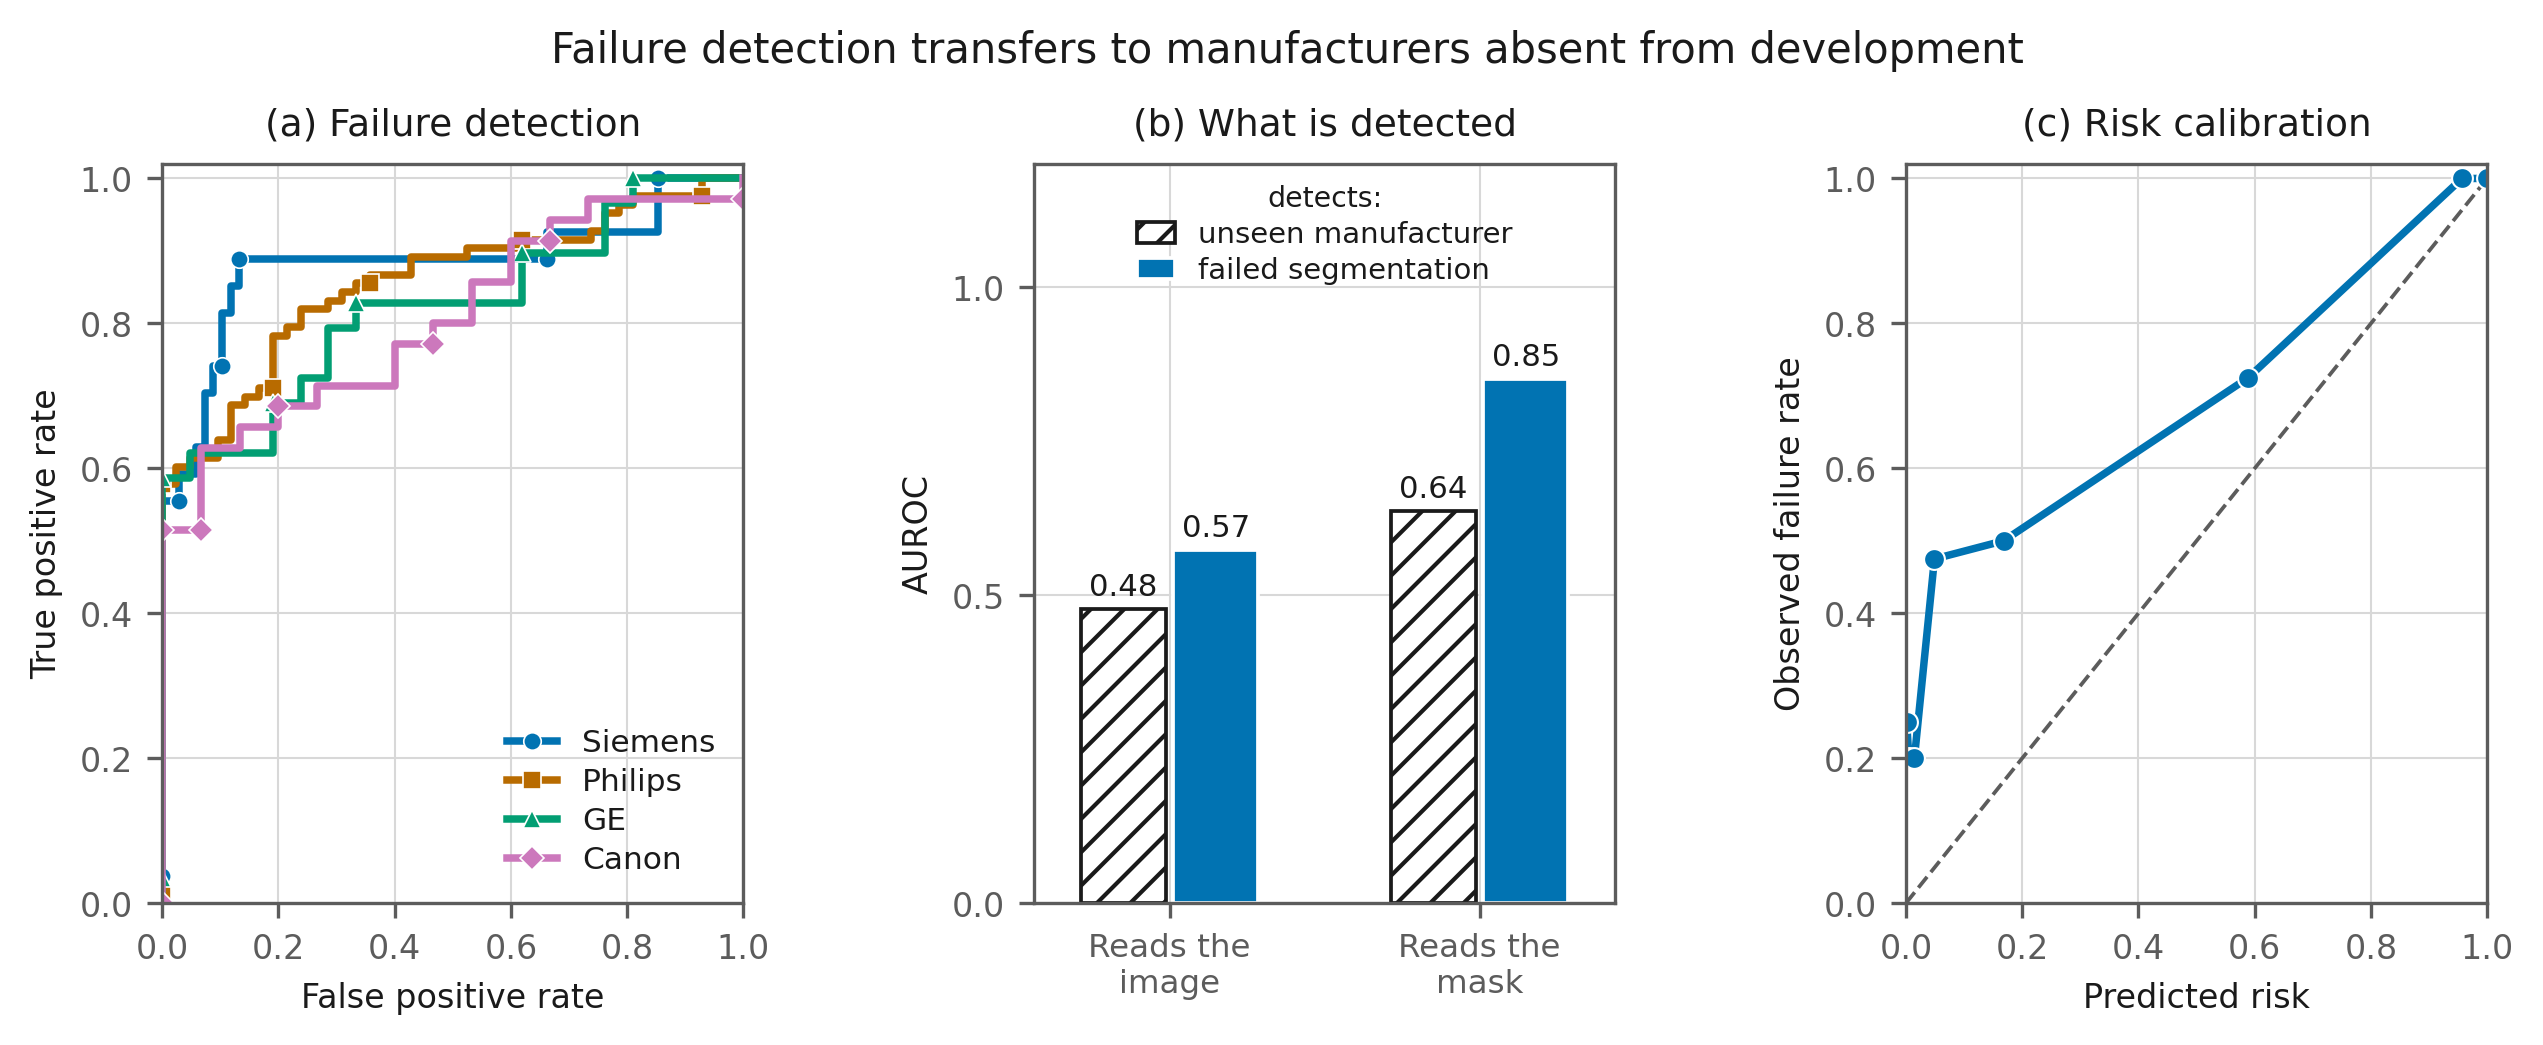
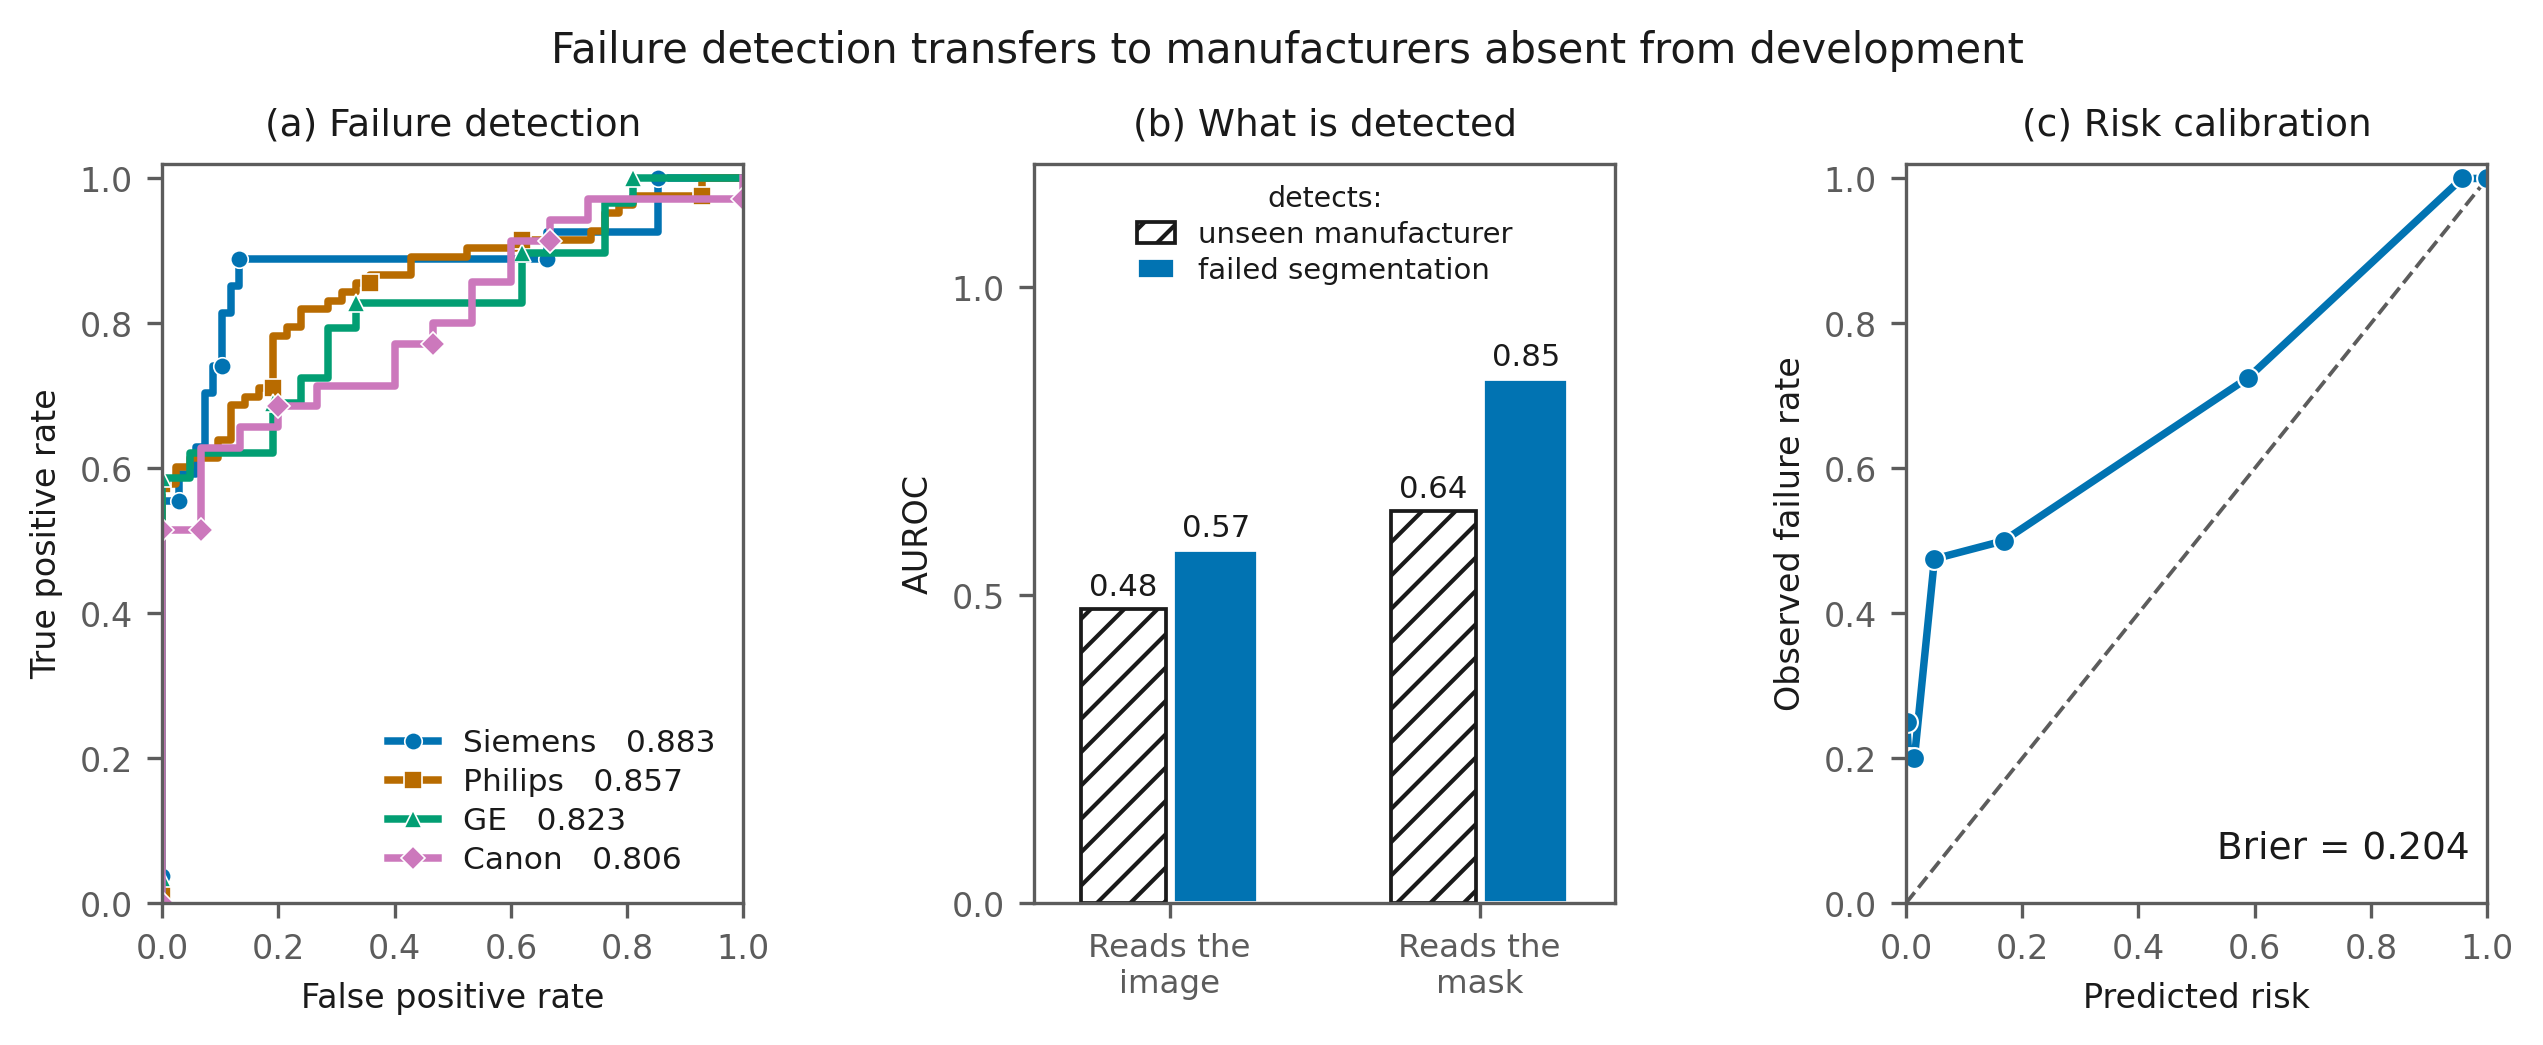
Figures: grid removed throughout; cases and axes reworked
- No grid on any panel.
- Fig. 1: ACDC now carries the Siemens colour (it IS a Siemens cohort) and the dataset is given
  by brackets under the axis, so the manufacturer axis is unambiguous and uncrowded.
- Fig. 2: both cases reselected at a MID-VENTRICULAR level -- basal and apical slices are
  excluded, since the RV is truncated at the base and the cavity vanishes at the apex. The crop
  now hugs the whole heart. PASS: risk 0.12 (non-degenerate), Dice 0.872, EF error 0.2 pp.
  REVIEW: risk 0.99, Dice 0.620, EF error 41.7 pp.
- Fig. 3: y-axis labelled on both panels.
- Fig. 4: per-manufacturer AUROC restored beside each curve; Brier score printed on (c).
- Fig. 5: the 20%-review annotation restored on (a).

Changed region(s): [[0.1243, 0.7043, 0.2796, 0.8574], [0.8698, 0.7962, 0.963, 0.8268]]

diff --git a/src/make_figures.py b/src/make_figures.py
@@ -49,7 +49,7 @@ plt.rcParams.update({
     "font.family": "DejaVu Sans", "font.size": 8,
     "axes.edgecolor": MUTED, "axes.linewidth": 0.8, "axes.labelcolor": INK,
     "xtick.color": MUTED, "ytick.color": MUTED, "text.color": INK,
-    "axes.grid": True, "grid.color": GRID, "grid.linewidth": 0.5,
+    "axes.grid": False,
     "axes.axisbelow": True, "legend.frameon": False,
     "figure.dpi": 300, "savefig.dpi": 300, "savefig.bbox": "tight",
 })
@@ -72,23 +72,32 @@ def fig1_vendor():
     dev, ext = cohorts()
     groups = [dev, ext[ext.vendor == "Siemens"]] + [ext[ext.vendor == v]
                                                     for v in ["Philips", "GE", "Canon"]]
-    labels = ["ACDC", "Siemens", "Philips", "GE", "Canon"]
-    cols = [DEV, COL["Siemens"], COL["Philips"], COL["GE"], COL["Canon"]]
+    # ACDC is itself a Siemens cohort, so it carries the Siemens colour. The two group
+    # brackets below the axis say which dataset each bar comes from.
+    labels = ["Siemens", "Siemens", "Philips", "GE", "Canon"]
+    cols = [COL["Siemens"], COL["Siemens"], COL["Philips"], COL["GE"], COL["Canon"]]
     hats = ["", "", HATCH["Philips"], HATCH["GE"], HATCH["Canon"]]
     x = np.arange(5)
 
-    fig, axes = plt.subplots(1, 3, figsize=(9.6, 3.0), gridspec_kw={"wspace": 0.42})
+    fig, axes = plt.subplots(1, 3, figsize=(10.6, 3.5), gridspec_kw={"wspace": 0.40})
 
     def panel(ax, vals, fmt, ymax, pad, ylabel, title):
         ax.axvspan(1.5, 4.5, color=SHADE, zorder=0)
         b = ax.bar(x, vals, 0.66, color=cols, hatch=hats, edgecolor="white",
                    linewidth=0.6, zorder=2)
-        b[0].set_edgecolor(INK); b[0].set_linewidth(1.0)
+        b[0].set_edgecolor(INK); b[0].set_linewidth(1.2)      # development cohort
         for xi, vi in zip(x, vals):
-            ax.text(xi, vi + pad, fmt.format(vi), ha="center", fontsize=7.2, color=INK)
-        ax.set_xticks(x); ax.set_xticklabels(labels, fontsize=7.2)
-        ax.set_ylim(0, ymax); ax.set_ylabel(ylabel, fontsize=8)
-        ax.set_title(title, fontsize=9, pad=7)
+            ax.text(xi, vi + pad, fmt.format(vi), ha="center", fontsize=7.4, color=INK)
+        ax.set_xticks(x)
+        ax.set_xticklabels(labels, fontsize=7.4, rotation=28, ha="right")
+        ax.set_ylim(0, ymax); ax.set_ylabel(ylabel, fontsize=8.5)
+        ax.set_title(title, fontsize=9.5, pad=8)
+        # dataset brackets under the axis
+        for x0, x1, lab in [(-0.42, 0.42, "ACDC"), (0.58, 4.42, "M&Ms")]:
+            ax.plot([x0, x1], [-0.235 * ymax] * 2, color=MUTED, lw=0.9,
+                    clip_on=False, zorder=3)
+            ax.text((x0 + x1) / 2, -0.29 * ymax, lab, ha="center", va="top",
+                    fontsize=8, color=INK, clip_on=False)
 
     panel(axes[0], [g[["dice_RV", "dice_Myo", "dice_LV"]].mean().mean() for g in groups],
           "{:.3f}", 1.05, 0.03, "Mean Dice", "(a) Segmentation accuracy")
@@ -108,24 +117,27 @@ def fig2_qualitative():
     disagreement where none does."""
     scores = pd.read_csv(os.path.join(RES, "qc_scores.csv")).set_index("patient_id")
     curves = np.load(os.path.join(RES, "disagreement_curves.npz"))
-    # PASS: all three structures segmented well (RV .922 / Myo .834 / LV .921), EF error 0.2 pp.
-    # REVIEW: the two propagations diverge (Dice .553, EF error 42 pp).
-    cases = [("M2P1R1", "Siemens", "PASS", "#1A7F37"),
-             ("B3E2W8", "Canon", "REVIEW", "#C42B1C")]
+    # PASS:   RV .918 / Myo .813 / LV .886, EF error 0.2 pp, risk 0.12.
+    # REVIEW: the two propagations diverge -- Dice .620, EF error 41.7 pp, risk 0.99.
+    cases = [("B5F8L9", "Siemens", "PASS", "#1A7F37"),
+             ("I8N8Y1", "Canon", "REVIEW", "#C42B1C")]
     sl_mnm = patient_slices("MnM")
 
     def best_slice(files):
-        """The slice where the whole heart is most completely represented: all three
-        structures present in the reference, and the largest total area."""
-        best, score = files[len(files) // 2], -1.0
-        for f in files:
+        """A mid-ventricular slice: basal and apical levels are excluded (the RV is truncated
+        at the base and the cavity vanishes at the apex), so only the middle third of the stack
+        is considered, and within it the level where all three structures are largest."""
+        files = sorted(files)
+        n = len(files)
+        mid = files[n // 3: max(n // 3 + 1, 2 * n // 3)]
+        best, score = mid[len(mid) // 2], -1.0
+        for f in mid:
             gt = np.load(f, allow_pickle=True)["ed_mask"]
             areas = [(gt == c).sum() for c in CLS]
-            if min(areas) < 30:                     # a structure is missing at this level
+            if min(areas) < 200:                    # a structure is barely present at this level
                 continue
-            s = float(min(areas)) * float(sum(areas)) ** 0.5
-            if s > score:
-                best, score = f, s
+            if min(areas) > score:
+                best, score = f, min(areas)
         return best
 
     fig, axes = plt.subplots(2, 6, figsize=(11.4, 4.1),
@@ -147,11 +159,17 @@ def fig2_qualitative():
         tm = int((lo + hi) / 2) if hi > lo + 1 else min(T - 1, lo + 1)     # mid-cycle
         gt = d["ed_mask"]
 
-        nz = (ed[tm] > 0) | (es[tm] > 0) | (gt > 0)
+        # crop tightly to the whole heart: the bounding box of the reference and both
+        # propagations, made square, with a small margin
+        nz = (ed[tm] > 0) | (es[tm] > 0) | (bi[ei] > 0) | (gt > 0)
         ys, xs = np.where(nz)
-        cy, cx = (int(ys.mean()), int(xs.mean())) if ys.size else (256, 256)
-        h = 88
-        sl = (slice(max(0, cy - h), cy + h), slice(max(0, cx - h), cx + h))
+        if ys.size:
+            cy, cx = int((ys.min() + ys.max()) / 2), int((xs.min() + xs.max()) / 2)
+            h = int(max(np.ptp(ys), np.ptp(xs)) / 2) + 14
+        else:
+            cy = cx = 256; h = 88
+        y0, x0 = max(0, cy - h), max(0, cx - h)
+        sl = (slice(y0, min(512, y0 + 2 * h)), slice(x0, min(512, x0 + 2 * h)))
 
         def show(ax, frame, mask, title):
             ax.imshow(frame[sl], cmap="gray", interpolation="nearest")
@@ -253,7 +271,7 @@ def fig3_estimation():
         ax.set_xlabel("True Dice")
         ax.set_title(title, fontsize=9, pad=7)
         ax.set_xlim(0.3, 1.0); ax.set_ylim(0.3, 1.0); ax.set_aspect("equal")
-    axes[0].set_ylabel("CycleQA estimate")
+        ax.set_ylabel("CycleQA estimate")
     fig.suptitle("Segmentation quality is estimable from the predictions alone",
                  fontsize=10, y=1.01)
     save(fig, "fig3_estimation.png")
@@ -274,9 +292,10 @@ def fig4_detection():
         if g["fail"].nunique() < 2:
             continue
         fpr, tpr, _ = roc_curve(g["fail"], g["qc_LogReg"])
+        a = perf[(perf.model == "LogReg") & (perf.subgroup == v)].auroc.iloc[0]
         ax.plot(fpr, tpr, color=COL[v], lw=1.8, marker=MRK[v], markevery=0.22,
                 markersize=4.2, markeredgecolor="white", markeredgewidth=0.4,
-                label=v, zorder=2)
+                label=f"{v}   {a:.3f}", zorder=2)
     ax.set_xlabel("False positive rate"); ax.set_ylabel("True positive rate")
     ax.set_title("(a) Failure detection", fontsize=9, pad=7)
     ax.legend(fontsize=7.5, loc="lower right", handlelength=1.6, labelspacing=0.32)
@@ -310,6 +329,10 @@ def fig4_detection():
     pt, pp = calibration_curve(s["fail"], s["qc_LogReg"], n_bins=8, strategy="quantile")
     ax.plot(pp, pt, color="#0173B2", lw=1.8, marker="o", markersize=5,
             markeredgecolor="white", markeredgewidth=0.5, zorder=2)
+    br = perf[(perf.model == "LogReg") & (perf.scope == "MnM (external)")
+              & (perf.subgroup == "ALL")].brier.iloc[0]
+    ax.text(0.97, 0.05, f"Brier = {br:.3f}", transform=ax.transAxes, ha="right",
+            va="bottom", fontsize=9, color=INK)
     ax.set_xlabel("Predicted risk"); ax.set_ylabel("Observed failure rate")
     ax.set_title("(c) Risk calibration", fontsize=9, pad=7)
     ax.set_xlim(0, 1); ax.set_ylim(0, 1.02)
@@ -333,8 +356,12 @@ def fig5_action():
             marker="o", markersize=5.5, markeredgecolor="white", markeredgewidth=0.6, zorder=2)
     ax.set_xlabel("Reported automatically (%)")
     ax.set_ylabel("Residual EF error (pp)")
-    ax.invert_xaxis(); ax.set_ylim(15, 25)
+    ax.invert_xaxis(); ax.set_ylim(15, 25.4)
     ax.set_title("(a) Selective referral", fontsize=9, pad=7)
+    y80 = rc[rc.coverage == 0.8].residual_ef_mae.iloc[0]
+    ax.annotate(f"review the riskiest 20%\n$\\rightarrow$ {y80:.1f} pp",
+                xy=(80, y80), xytext=(66, 23.6), fontsize=7.2, color=INK, ha="center",
+                arrowprops=dict(arrowstyle="->", lw=1.0, color=INK))
 
     # (b) reselection -- rotated labels, well separated
     ax = axes[1]

diff --git a/metispaper.md b/metispaper.md
@@ -438,16 +438,19 @@ Two patients, five columns. Both rows show a **mid-cycle frame**, deliberately: 
 > for frame *t* and structure *c*, `A_c(t) = Dice( ed_pred[t] , es_pred[t] )` — the overlap between
 > the two independent propagations. The map in column 5 is simply `ed_pred[t] != es_pred[t]`.
 
-**Top row (Siemens, PASS):** all three structures are segmented well (RV 0.922, Myo 0.834, LV
-0.921). Reference and prediction are nearly identical, and so are the two propagations. The
-disagreement map is a thin rim — boundary noise. **CycleQA risk 0.06. True Dice 0.892. EF error
-0.2 pp.** (A risk of exactly 0.00 would look artificial; 0.06 is a real, low, non-degenerate score.)
+Both rows show a **mid-ventricular** level. Basal and apical slices are deliberately excluded: the
+right ventricle is truncated at the base and the cavity vanishes at the apex, so neither shows the
+whole heart. The crop is tight to the bounding box of the reference and both propagations.
 
-**Bottom row (Canon, REVIEW):** the forward pass draws a large left ventricle; the backward pass
-draws a small one, shifts the myocardium, and **splits the right ventricle into two components —
-anatomically impossible.** The disagreement map is a large solid region: **the model is visibly
-contradicting itself.** `A(t)` collapses to 0.3–0.4. **CycleQA risk 0.95. True Dice 0.553. EF error
-42.0 pp.**
+**Top row (Siemens, PASS):** all three structures are segmented well (RV 0.918, Myo 0.813, LV
+0.886). Reference and prediction are nearly identical, and so are the two propagations. The
+disagreement map is a thin rim — boundary noise. **CycleQA risk 0.12. True Dice 0.872. EF error
+0.2 pp.** (A risk of exactly 0.00 would look artificial; 0.12 is a real, low, non-degenerate score.)
+
+**Bottom row (Canon, REVIEW):** the two propagations place the myocardium and cavity differently, and
+the disagreement map becomes a **large solid region covering the entire left ventricle** — the model
+is visibly contradicting itself. Myocardial agreement collapses to ≈0.35. **CycleQA risk 0.99. True
+Dice 0.620. EF error 41.7 pp.**
 
 > **Neither judgement used a reference mask. The red region *is* the signal.** This is the figure
 > that makes the method intuitive before any number is quoted.
